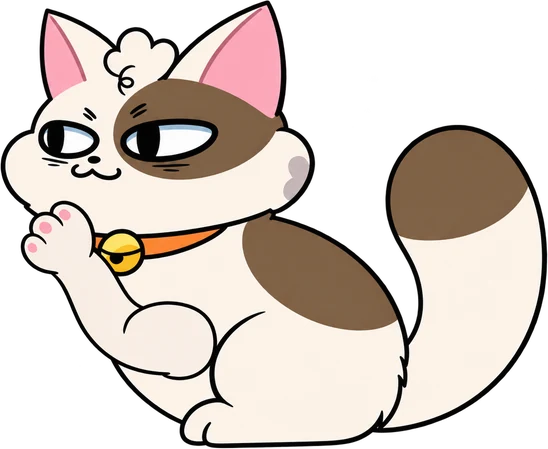
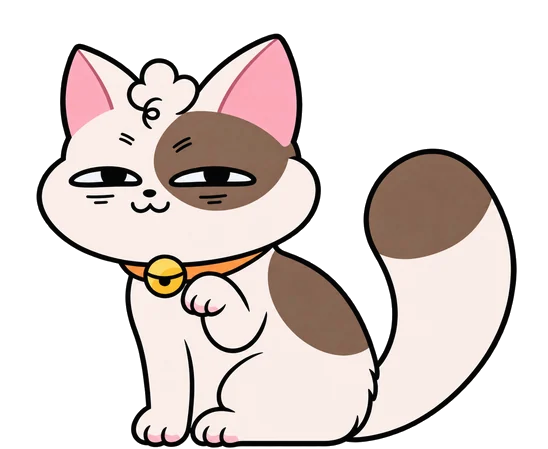
강고양이 씨 그루밍 다시 그림 4장(얼굴 옆을 닦는 예쁜 그루밍) + 기지 쉬는 자세에 다시
Claude-Session: https://claude.ai/code/session_013gkWdk2VcdyW8ssuuSmMXW

diff --git a/web/base/family.js b/web/base/family.js
@@ -22,7 +22,7 @@ const CAT = {
   loaf: { f: rng('cat_loaf', 2), ms: 1600, loop: 1, face: 1 },
   groom: { f: rng('cat_groom', 4), ms: 320, loop: 1, face: 1 },
 };
-const IDLE = [['loaf', 24000], ['sleep', 24000], ['sit', 9000]]; // 일이 없을 때 천천히 번갈아 (그루밍은 뺌 — 기지에선 안 예쁨, 주인 2026-11-08)
+const IDLE = [['loaf', 24000], ['sleep', 24000], ['sit', 9000], ['groom', 7000]]; // 일이 없을 때 천천히 번갈아
 // 쉬는 자세 고르기: ms마다 한 칸, 칸마다 표에서 하나 (같은 시각이면 늘 같음)
 export const idlePick = (now, ms, list, salt = 0) => list[(Math.floor(now / ms) * 2654435761 + salt * 97) % 4294967296 % list.length];
 const KING_IDLE = ['doze', 'doze', 'sit', 'doze', 'chin', 'sit'];

diff --git a/assets/briefs/CAT_GROOM_REDO.md b/assets/briefs/CAT_GROOM_REDO.md
@@ -1,6 +1,6 @@
 # 에셋: 강고양이 씨 그루밍 다시 그리기 (CAT_GROOM_REDO)
 
-> 상태: **주문 전 (2026-11-08).** 주인: 얼굴 긁는 그루밍이 안 예쁨 — "우리는 예쁜 고양이를 추구한다". ChatGPT에 손으로 주문 — 1~5절을 붙여 넣고 본보기 그림을 같이 올린다.
+> 상태: **4장 받음·다듬기·적용 (2026-11-08, `web/f/cat_groom_1~4.webp`, 원본 `assets/sprites/cat-groom-v3-N.png`). 기지 쉬는 자세에도 다시 넣음.** 주인: 얼굴 긁는 그루밍이 안 예쁨 — "우리는 예쁜 고양이를 추구한다". ChatGPT에 손으로 주문 — 1~5절을 붙여 넣고 본보기 그림을 같이 올린다.
 > 바꿀 것: `web/f/cat_groom_1~4.webp` (거실·기지가 같이 씀). 받으면 기지 쉬는 자세에 그루밍을 다시 넣는다(`web/base/family.js` IDLE).
 
 ## 1. 한 줄 요약
